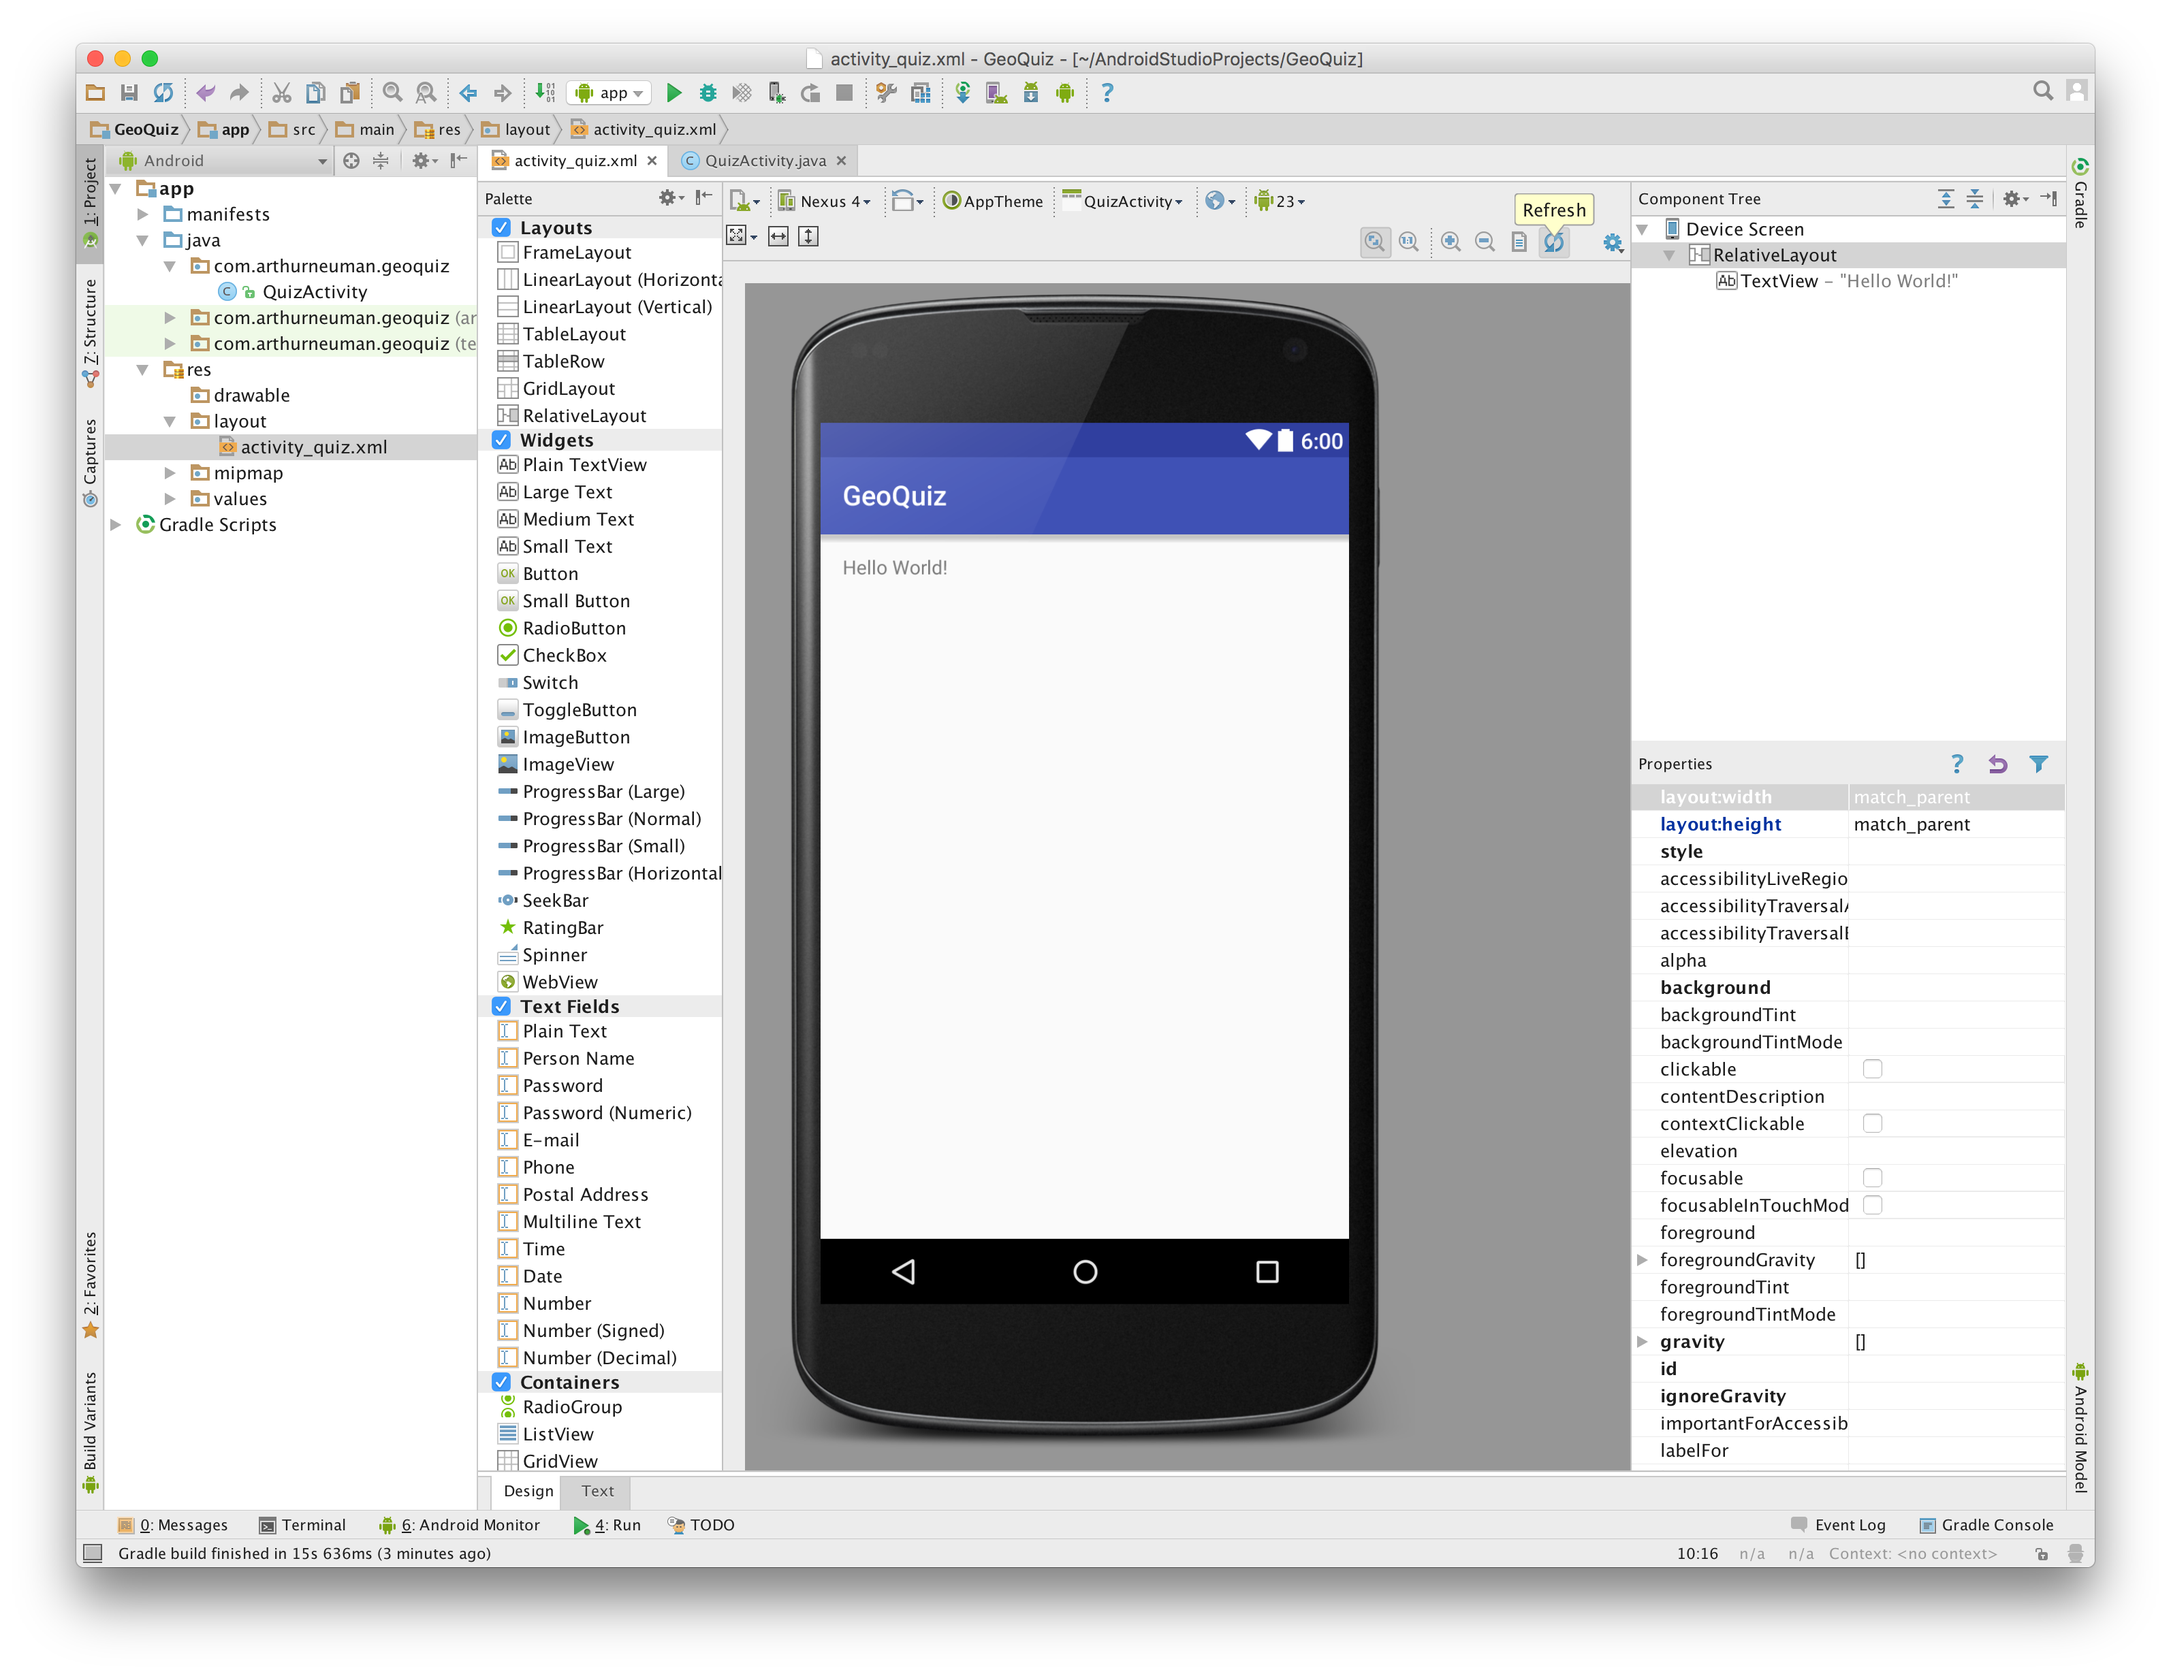
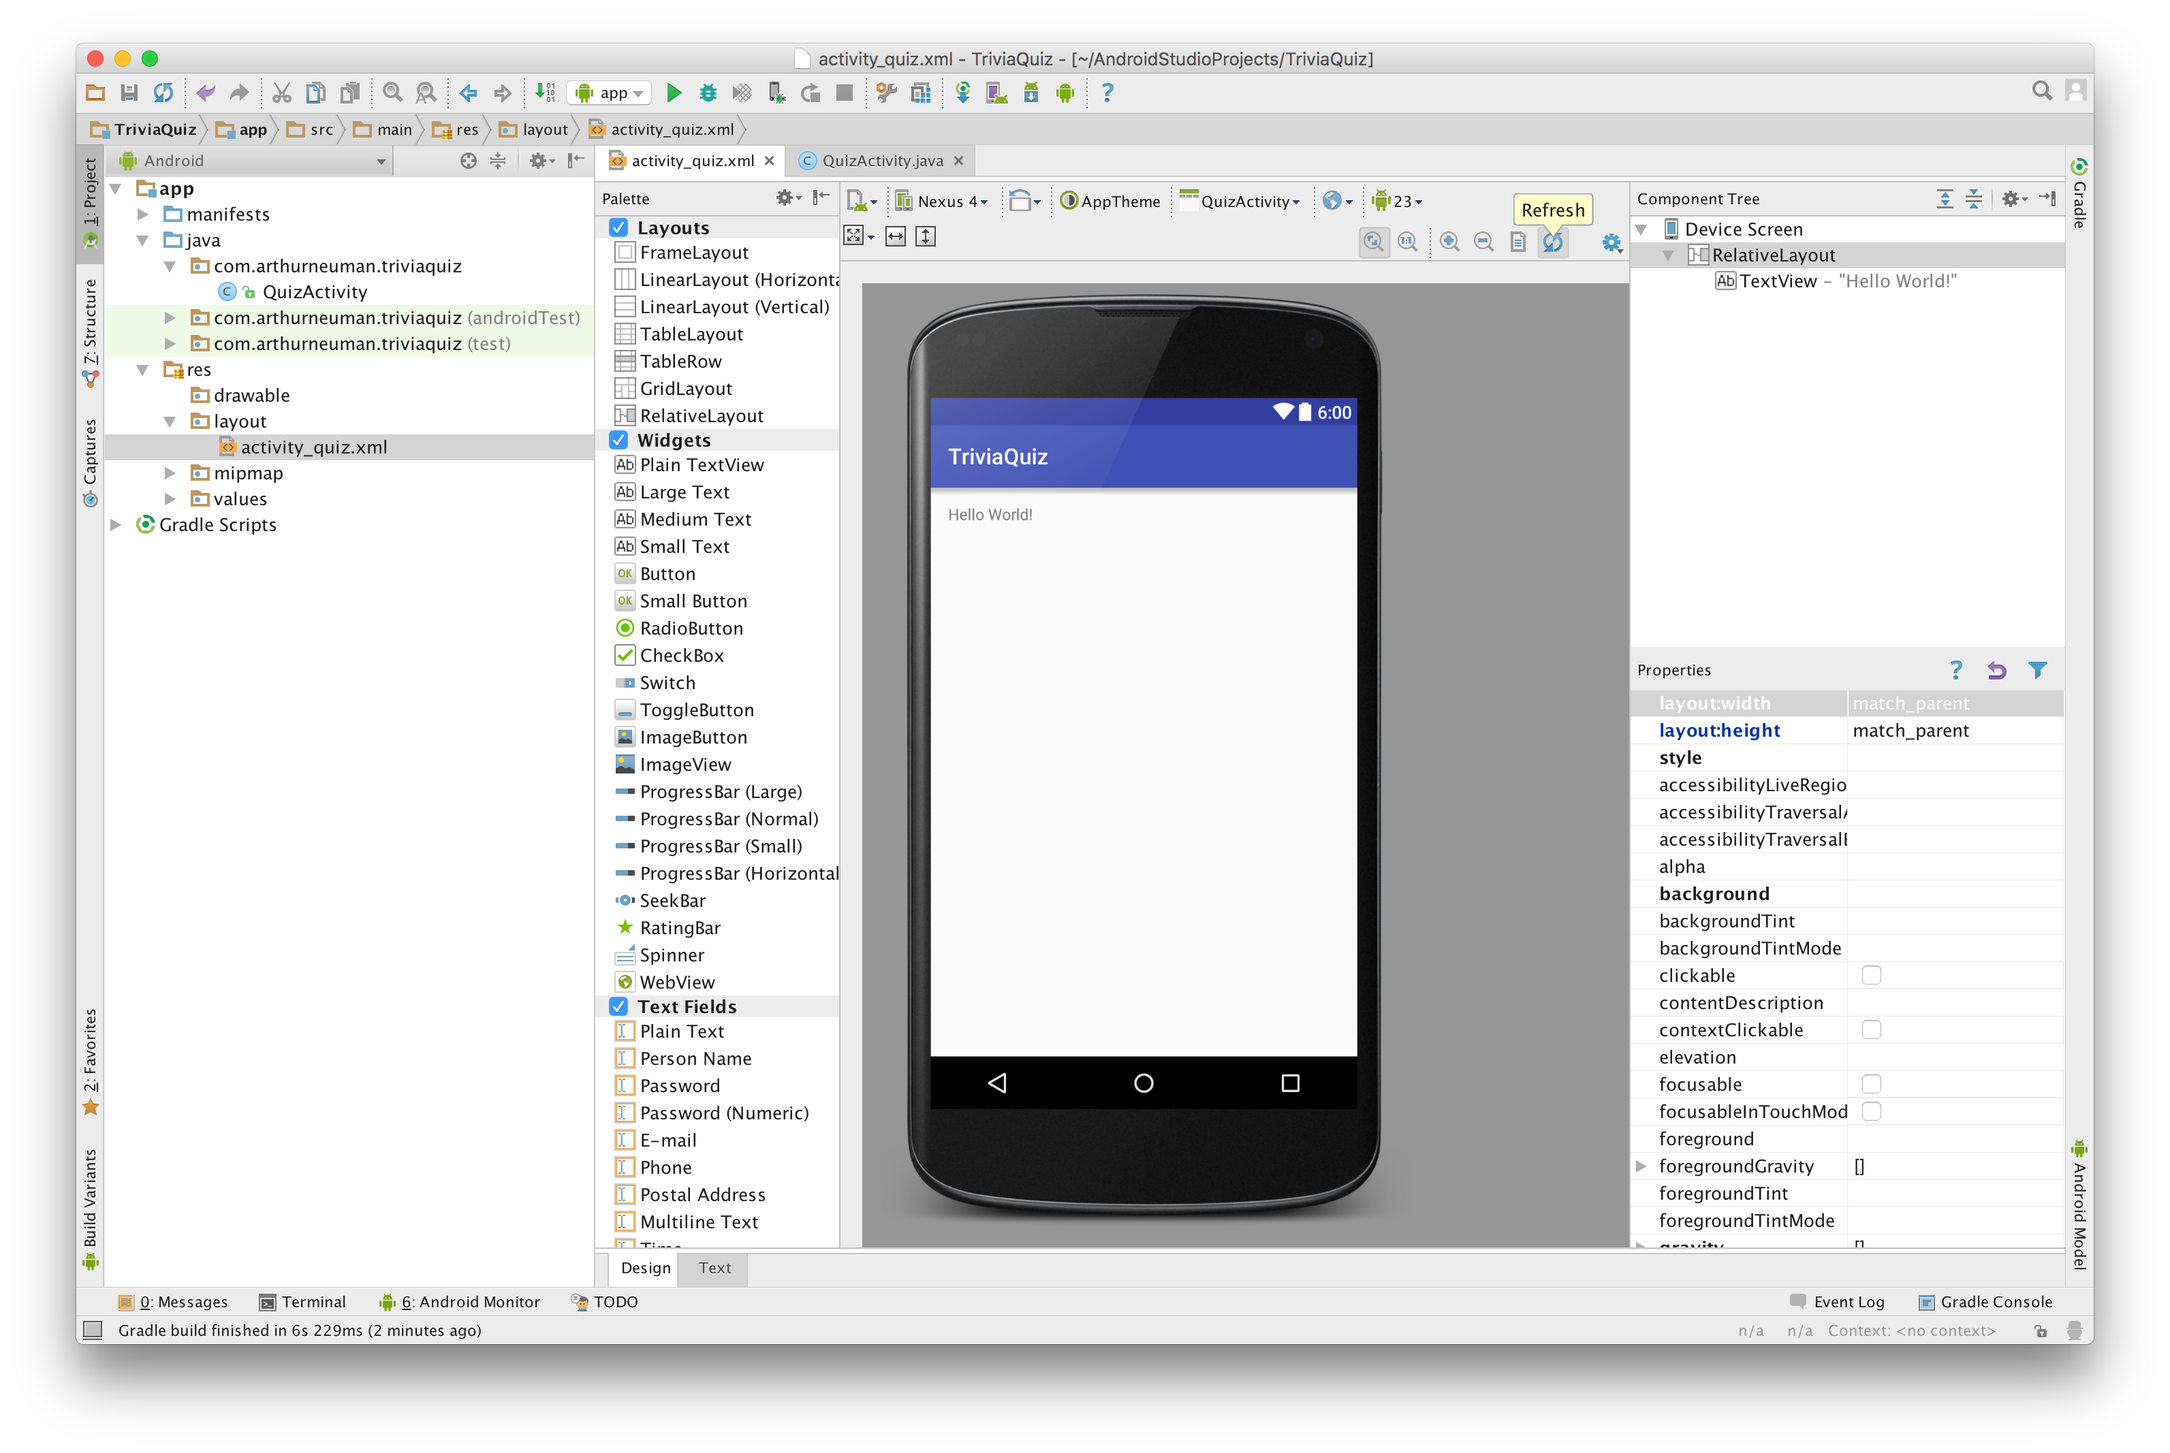
week 01: best app

Changed region(s): [[0.0311, 0.0309, 0.9633, 0.9588], [0.0311, 0.7423, 0.0621, 0.7732]]

diff --git a/week_01/readme.md b/week_01/readme.md
@@ -37,7 +37,7 @@ install.  Select all the available components, and click **Next**.
 Click **Finish** to begin downloading and installing the SDK components.  When
 installation is complete, click **Finish** again.
 
-### Hello World!
+### Our First App
 The initial steps of developing a new application in Android Studio are similar
 to the steps of developing a new application in IntelliJ.  When presented with
 the Android Studio welcome screen, select **Start a new Android Studio
@@ -48,8 +48,9 @@ project**.
 Next, choose an application name, a domain name, and a project location.  
 Android Studio will use the domain name to create the appropriate package name.
 
-For our first application, we'll be creating the same GeoQuiz app as is
-presented in the *Android Programming* book.  
+For our first application, we'll be creating an app that is similar to the
+*GeoQuiz* app presented in the *Android Programming* book.  Our app will be
+*TriviaQuiz*.
 
 ![New Project](images/studio-new-2.png)
 
@@ -76,7 +77,7 @@ application.  Once generation is complete, we'll be presented with a window
 that looks very similar to IntelliJ.  We can open the *Project* pane and
 examine the project's directory structure.  
 
-Two import files are `HelloActivity.java` and `activity_hello.xml`.  The Java
+Two import files are `QuizActivity.java` and `activity_quiz.xml`.  The Java
 file contains the code that will be executed when our application is run.  The
 XML file contains information about how graphical elements are displayed.  We
 will discuss layouts more later.  
@@ -111,12 +112,11 @@ icon in the the Android Studio toolbar.
 ###Adding Functionality
 Let's expand on this by adding more functionality to our app.  To add
 functionality, we'll need to expand our user interface.  Our user interface
-will consist of a text box that displays a question's text and two buttons that
-allow the user to indicate whether a statement is true or false.  While it's
-possible to directly associate text representing labels and such with widgets,
+will consist of a text box that displays a question's text and four buttons
+that present possible answers to the user. While it's possible to directly
+associate text representing labels and such with buttons and text boxes,
 Android allows us to specify string values in a string resource file.  Using
-a string resource file makes it easier to support different languages and to
-alter the text programatically.  
+a string resource file makes it easier to support different languages.
 
 Open the `res/values/string.xml` file.  This is the default string resource
 file created with all new projects.  The content of this file is XML and
@@ -126,16 +126,17 @@ content of the string resource file with the following:
 
 ```xml
 <resources>
-    <string name="app_name">GeoQuiz</string>
-    <string name="question_text">Seattle is the capital of Washington.</string>
-    <string name="true_button">True</string>
-    <string name="false_button">False</string>
+    <string name="app_name">TriviaQuiz</string>
+    <string name="question_text">What is the capital of Washington?</string>
+    <string name="option_1_button">Seattle</string>
+    <string name="option_2_button">Tacoma</string>
+    <string name="option_3_button">Olympia</string>
+    <string name="option_4_button">Spokane</string>
 </resources>
 ```
 
-We can see that four strings are defined here.  One of them is named
-"question_text" and its value is "Seattle is the capital of Washington."
-
+We can see that six strings are defined here.  One of them is named
+"question_text" and its value is "Seattle is the capital of Washington."  
 
 Now that we've defined the strings we'll need, we can return to the
 `activity_quiz.xml` layout file. Examining the *activity_quiz.xml* layout, we
@@ -143,7 +144,7 @@ can see that our app layout includes a *RelativeLayout* and a *TextView*
 widget.  Layouts are used to arrange items on the screen and widgets are used
 to interact with users; we'll talk about both of these more in later lectures.
 
-For the *GeoQuiz* app we're making, we don't want either of these elements.  
+For the *TriviaQuiz* app we're making, we don't want either of these elements.  
 While we can use the design view to add and remove most layouts and widgets, we
 can't use it to remove a top-level layout.  We'd like to change the top-level
 layout from a *RelativeLayout* to a vertical *LinearLayout*.  To do this, click
@@ -163,24 +164,23 @@ the *Text* tab and replace the XML text with the following:
 We can now switch back to design view and add a plain *TextView* near the
 center of the layout by dragging and dropping a "Plain TextView" widget from
 the *Palette* to the design view.  In the *Properties* section, set the text to
-`@string/question_text`.  The text should be replaced with "Seattle is the
-capital of Washington."  Additionally, set the padding of the *TextView* to
+`@string/question_text`.  The text should be replaced with "What is the
+capital of Washington?"  Additionally, set the padding of the *TextView* to
 `24dp`; you can do this by expanding the `padding` property in the *Properties*
 section and setting the value for `all`.
 
-Drag and drop a horizontal *LinearLayout* below the *TextView* widget; this
-will be used to layout two buttons.  Drag and drop two *Button* widgets into
-the new *LinearLayout*.  In order to center the buttons on the screen, select
-the horizontal *LinearLayout* from the *Component Tree* and set `layout:width`
-to `wrap_content` in the *Properties* section.  
+Next, drag and drop four *Button* widgets, one-by-one, into the *LinearLayout*
+below the *TextView* widget.  
 
-![Layout](images/geoquiz-1.png)
+![Layout](images/triviaquiz-1.png)
 
 We can set the *Button* widgets' text using the string resources we previously
-created; set the first and second button's `text` property to
-`@string/true_button` and `@string/false_button`, respectively.  While we're
-changing *Button* properties, let's also change their IDs; this will be useful
-later.  Change the IDs to `true_button` and `false_button` as appropriate.
+created; set the buttons' `text` property to `@string/option_1_button`,
+`@string/option_2_button`, `@string/option_3_button`, and
+`@string/option_4_button` While we're changing *Button* properties, let's also
+change their IDs (this will be useful later) and set their `layout:width` to
+`fill_parent`.  Change the IDs to `option_1_button`, `option_2_button`,
+`option_3_button`, and `option_4_button`.
 
 Though we can design entire interfaces with the Layout Designer, we should be
 familiar with the XML associated with layouts and widgets.  The XML for our
@@ -199,32 +199,42 @@ current interface should look something like this:
         android:layout_height="wrap_content"
         android:text="@string/question_text"
         android:id="@+id/textView"
+        android:layout_gravity="center_horizontal"
         android:padding="24dp" />
 
-    <LinearLayout
-        android:orientation="horizontal"
-        android:layout_width="wrap_content"
+    <Button
+        android:layout_width="fill_parent"
         android:layout_height="wrap_content"
-        android:layout_gravity="center_horizontal">
+        android:text="@string/option_1_button"
+        android:id="@+id/option_1_button"
+        android:layout_gravity="center_horizontal" />
 
-        <Button
-            android:layout_width="wrap_content"
-            android:layout_height="wrap_content"
-            android:id="@+id/true_button"
-            android:text="@string/true_button" />
+    <Button
+        android:layout_width="fill_parent"
+        android:layout_height="wrap_content"
+        android:text="@string/option_2_button"
+        android:id="@+id/option_2_button"
+        android:layout_gravity="center_horizontal" />
 
-        <Button
-            android:layout_width="wrap_content"
-            android:layout_height="wrap_content"
-            android:id="@+id/false_button"
-            android:text="@string/false_button" />
-    </LinearLayout>
+    <Button
+        android:layout_width="fill_parent"
+        android:layout_height="wrap_content"
+        android:text="@string/option_3_button"
+        android:id="@+id/option_3_button"
+        android:layout_gravity="center_horizontal" />
+
+    <Button
+        android:layout_width="fill_parent"
+        android:layout_height="wrap_content"
+        android:text="@string/option_4_button"
+        android:id="@+id/option_4_button"
+        android:layout_gravity="center_horizontal" />
 </LinearLayout>
 ```
 
 If we run the app, it now looks like this:
 
-![GeoQuiz](images/geoquiz-2.png)
+![GeoQuiz](images/triviaquiz-2.png)
 
 Notice that while the widgets we've added are displayed and we can click the
 buttons, nothing happens when we do.  To add functionality to the buttons,
@@ -234,7 +244,7 @@ already exists.
 In the `QuizActivity.java` file, you should see code similar to the following:
 
 ```java
-package com.arthurneuman.geoquiz;
+package com.arthurneuman.triviaquiz;
 
 import android.support.v7.app.AppCompatActivity;
 import android.os.Bundle;
